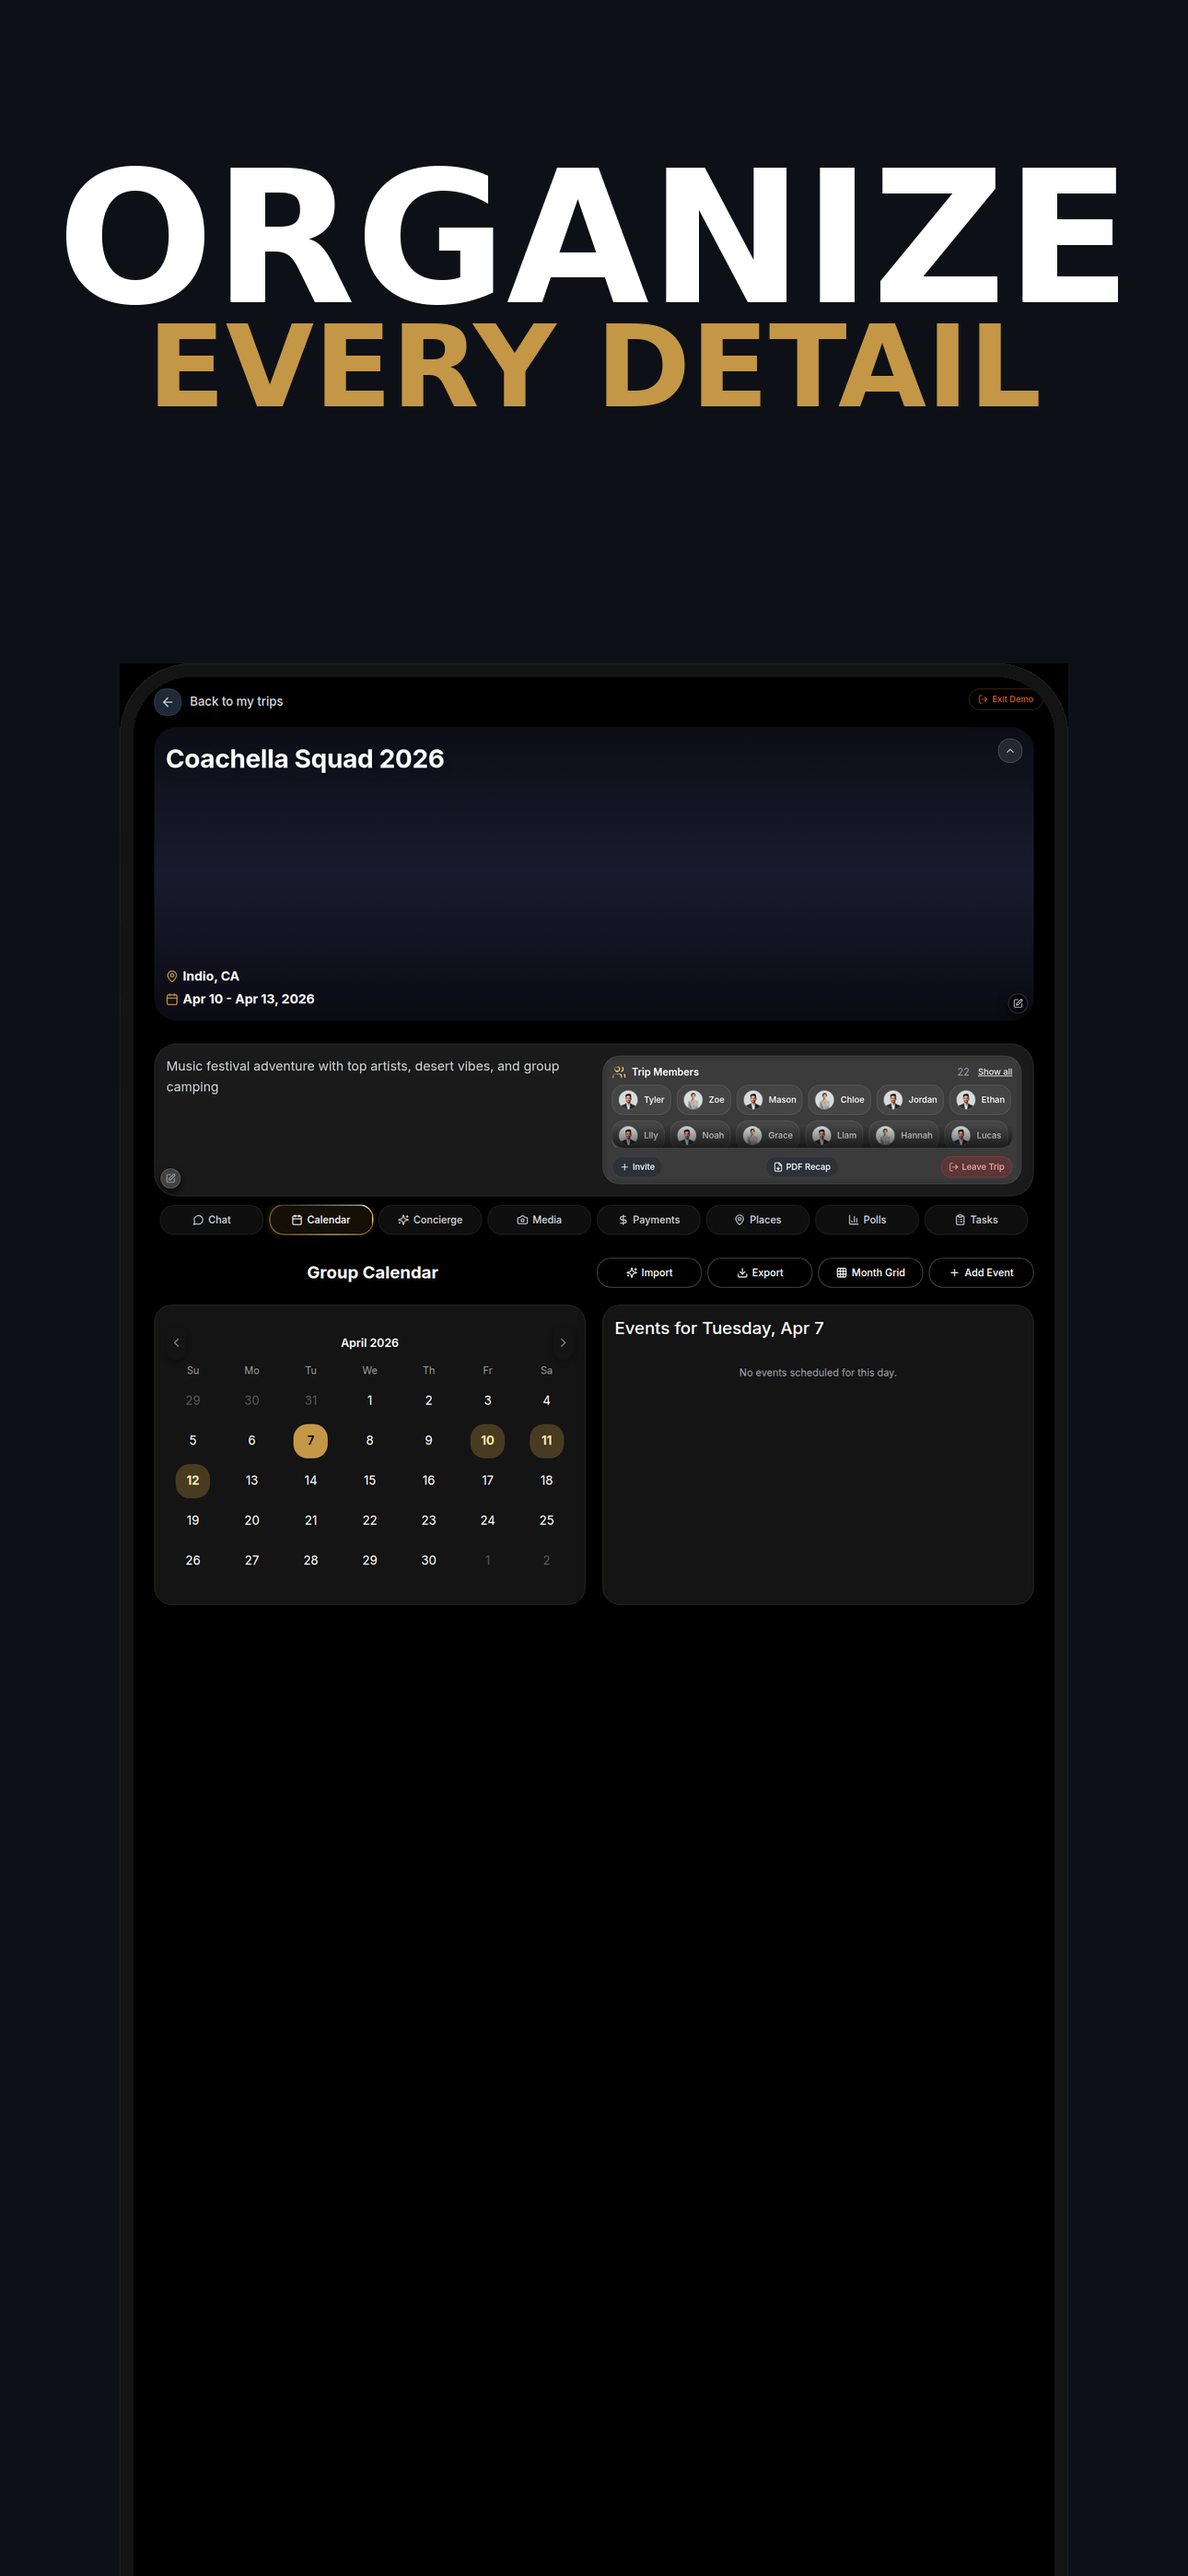
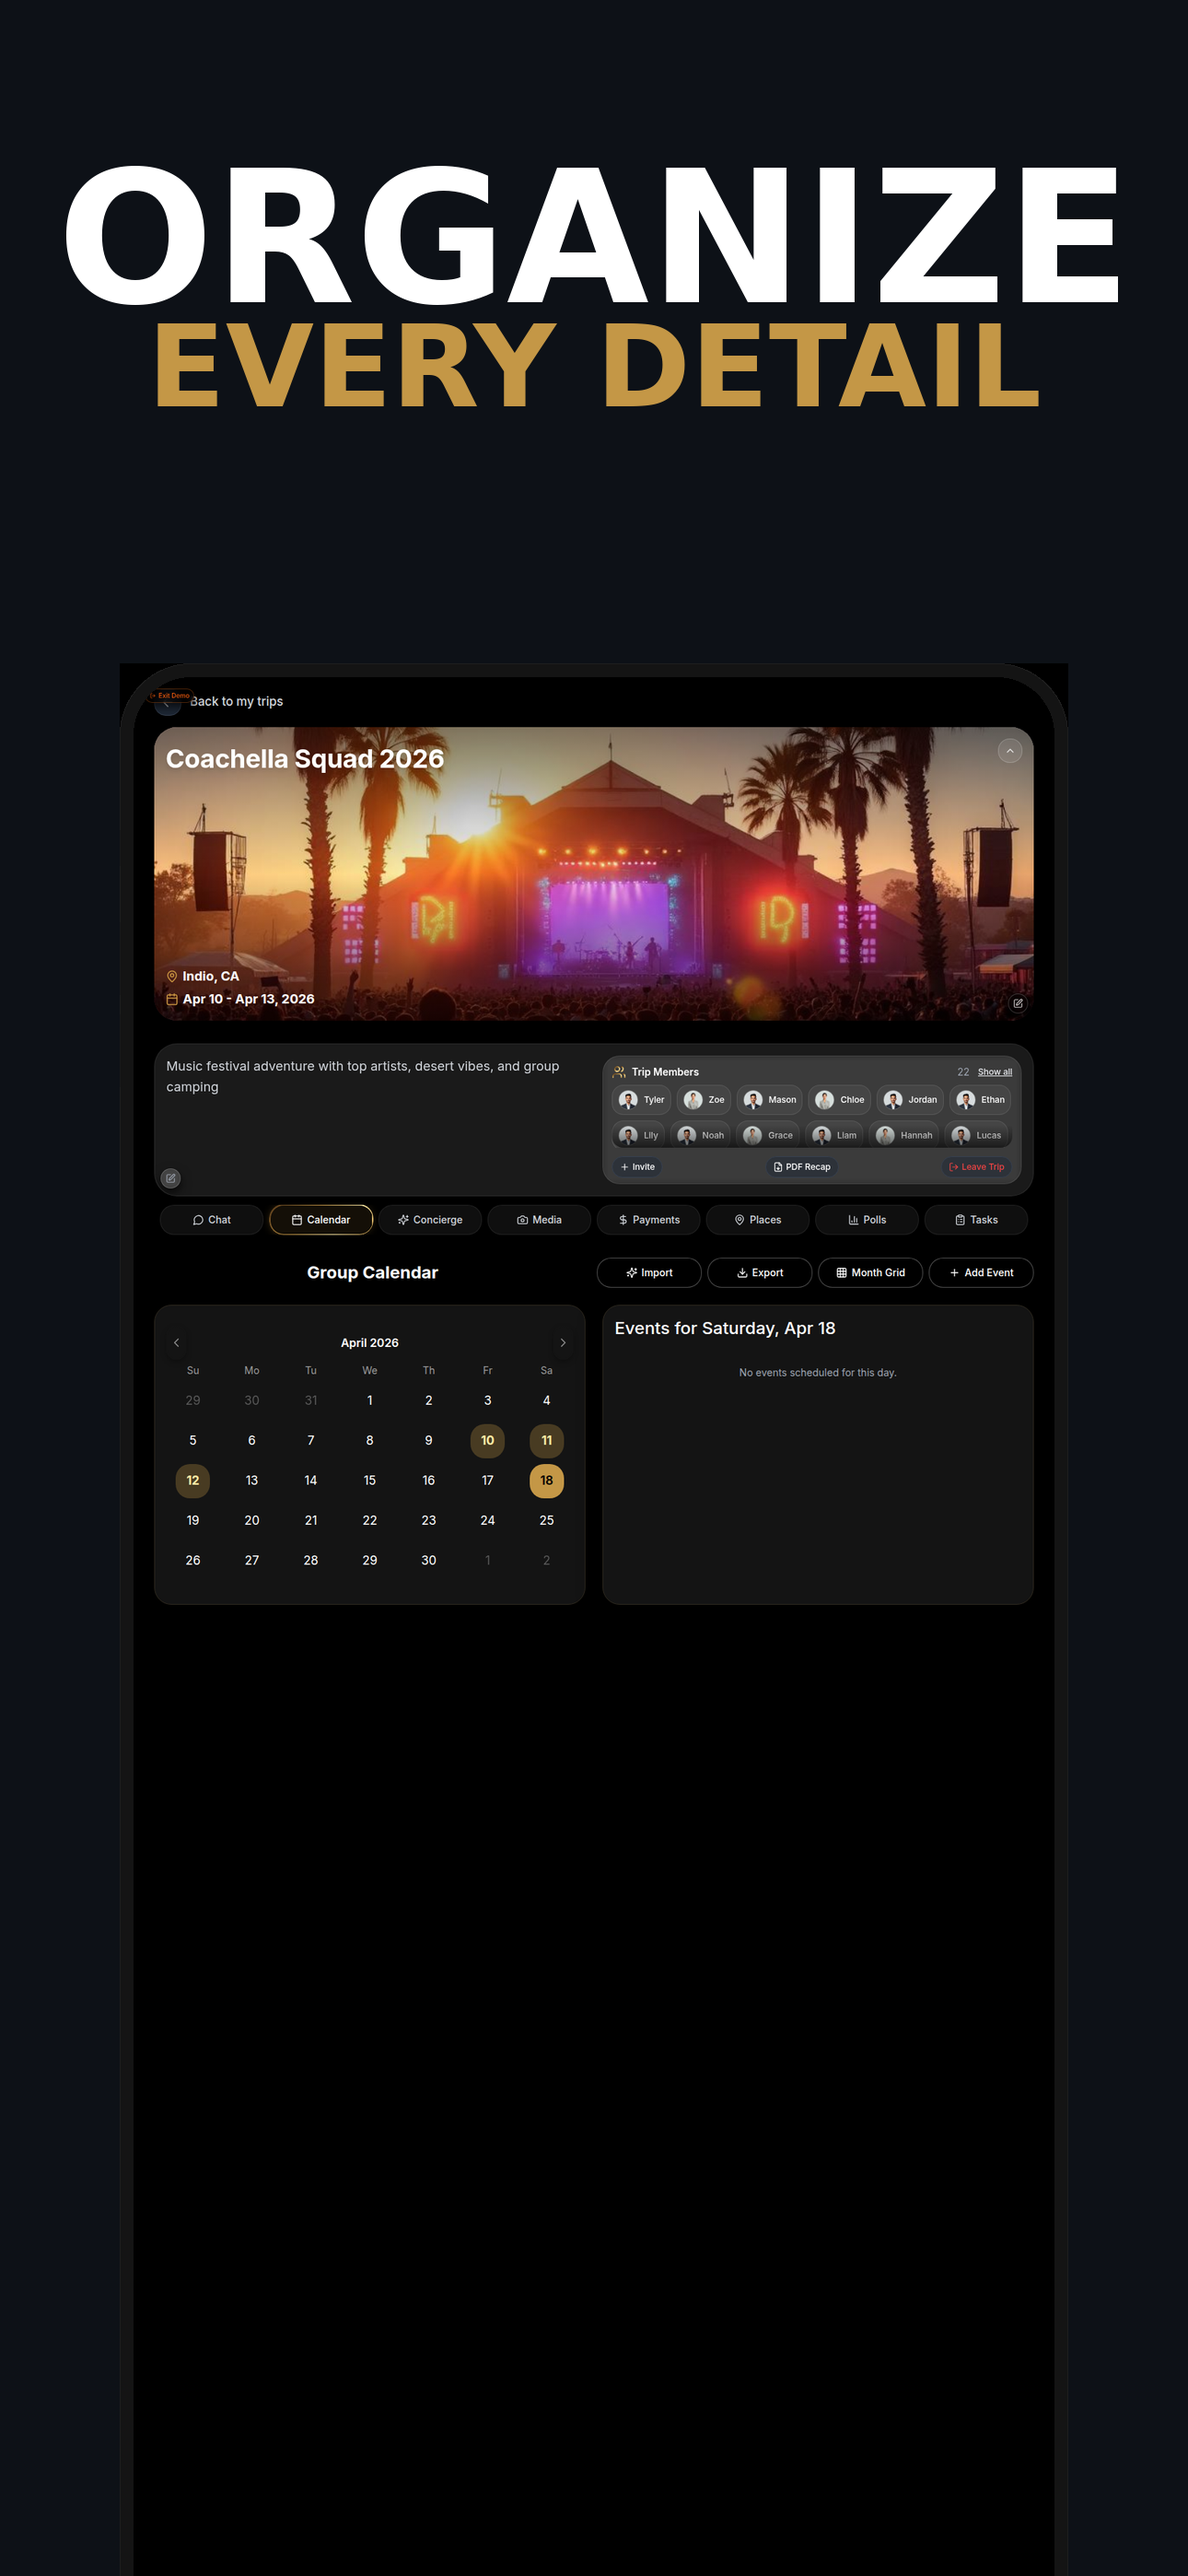
fix(screenshots): show trip cover photos in App Store marketing set
TripHeader hero was rendering a flat dark gradient in captured screenshots
because it raced a remote Supabase cover URL and only fell back to the
bundled demo asset after onError fired. Playwright captured the page
before the fallback loaded.

- TripHeader: in demo mode, use the bundled getDemoTripCoverFallback()
  asset as the initial img src (matches TripCard/ProTripCard/EventCard
  pattern). Authenticated mode is unchanged — real cover_image_url still
  wins. Added loading="eager" + decoding="async" so the hero resolves
  before capture.
- capture-appstore-screenshots: add waitForHeroImageReady helper that
  blocks on [data-trip-section="hero"] img.complete + naturalWidth > 0
  before screenshot. Timeout is non-fatal and emits a warning.
- Regenerated all 12 raw + 12 marketing screenshots (iPhone 6.7" + iPad
  12.9"). Headers, copy, layout, device frames, and output resolutions
  are unchanged — only the phone-screen content moves.

https://claude.ai/code/session_01YRvJx4yZx4gQqAniqSddro

diff --git a/src/components/TripHeader.tsx b/src/components/TripHeader.tsx
@@ -427,6 +427,13 @@ export const TripHeader = ({
     setCoverFallbackSrc(undefined);
   }, [coverPhoto]);
 
+  // In demo mode, prefer the bundled cover asset up front so the hero renders
+  // immediately without racing a remote fetch (matches TripCard/ProTripCard/EventCard).
+  const demoFallbackCover = isDemoMode ? getDemoTripCoverFallback(trip.id) : undefined;
+  const displayCover =
+    coverFallbackSrc ?? (isDemoMode && demoFallbackCover ? demoFallbackCover : coverPhoto);
+  const hasCover = Boolean(coverPhoto || demoFallbackCover);
+
   const handleCropCancel = () => {
     setShowCropModal(false);
     if (cropImageSrc && isBlobOrDataUrl(cropImageSrc)) {
@@ -453,17 +460,21 @@ export const TripHeader = ({
             backgroundColor: '#1a1a2e',
           }}
         >
-          {coverPhoto && !hasCoverLoadError && (
+          {hasCover && !hasCoverLoadError && (
             <div className="absolute inset-0">
               <img
-                src={coverFallbackSrc ?? coverPhoto}
+                src={displayCover}
                 alt=""
                 aria-hidden="true"
+                loading="eager"
+                decoding="async"
                 className="absolute inset-0 w-full h-full object-cover blur-md scale-110 opacity-45"
               />
               <img
-                src={coverFallbackSrc ?? coverPhoto}
+                src={displayCover}
                 alt={`${trip.title} cover`}
+                loading="eager"
+                decoding="async"
                 onError={() => {
                   // In demo mode, try bundled fallback before giving up
                   if (isDemoMode && !coverFallbackSrc) {
@@ -487,7 +498,7 @@ export const TripHeader = ({
           <div
             className={cn(
               'absolute inset-0',
-              coverPhoto
+              hasCover
                 ? 'bg-gradient-to-b from-black/50 via-transparent to-black/60'
                 : 'bg-gradient-to-b from-black/70 via-gray-900/60 to-black/70',
             )}
@@ -584,7 +595,7 @@ export const TripHeader = ({
               </div>
 
               {/* Add Cover Photo Button - Show when no cover photo */}
-              {!coverPhoto && (
+              {!hasCover && (
                 <div className="absolute top-4 right-4 z-10 lg:right-16">
                   <button
                     onClick={handleAddCoverPhotoClick}

diff --git a/scripts/capture-appstore-screenshots.ts b/scripts/capture-appstore-screenshots.ts
@@ -153,6 +153,28 @@ const TAB_READY_SELECTORS: Record<string, string[]> = {
 // Readiness helpers
 // ---------------------------------------------------------------------------
 
+/**
+ * Wait for the trip hero cover image to finish decoding.
+ * Returns true once every <img> inside [data-trip-section="hero"] is
+ * complete with naturalWidth > 0. Returns true immediately on pages
+ * without a hero (e.g. dashboard). Returns false on timeout (non-fatal).
+ */
+async function waitForHeroImageReady(page: Page, timeout = 8000): Promise<boolean> {
+  const start = Date.now();
+  while (Date.now() - start < timeout) {
+    const ready = await page.evaluate(() => {
+      const hero = document.querySelector('[data-trip-section="hero"]');
+      if (!hero) return true; // no hero on this page
+      const imgs = Array.from(hero.querySelectorAll('img')) as HTMLImageElement[];
+      if (imgs.length === 0) return false;
+      return imgs.every(img => img.complete && img.naturalWidth > 0);
+    });
+    if (ready) return true;
+    await page.waitForTimeout(200);
+  }
+  return false;
+}
+
 /** Wait until no skeleton/loading indicators are visible */
 async function waitForNoSkeletons(page: Page, timeout = 15000): Promise<void> {
   const start = Date.now();
@@ -403,6 +425,14 @@ async function captureShot(
       if (body?.includes('Please Log In') || body?.includes('You need to be signed in')) {
         lastError = 'Auth gate detected';
         continue;
+      }
+
+      // Wait for the trip hero cover image to finish decoding so the
+      // captured screenshot shows the trip's cover photo (not the
+      // dark fallback while the image is still loading).
+      const heroReady = await waitForHeroImageReady(page);
+      if (!heroReady) {
+        console.warn(`    ⚠ ${shot.name}: hero cover image did not finish loading in time`);
       }
 
       // Capture
